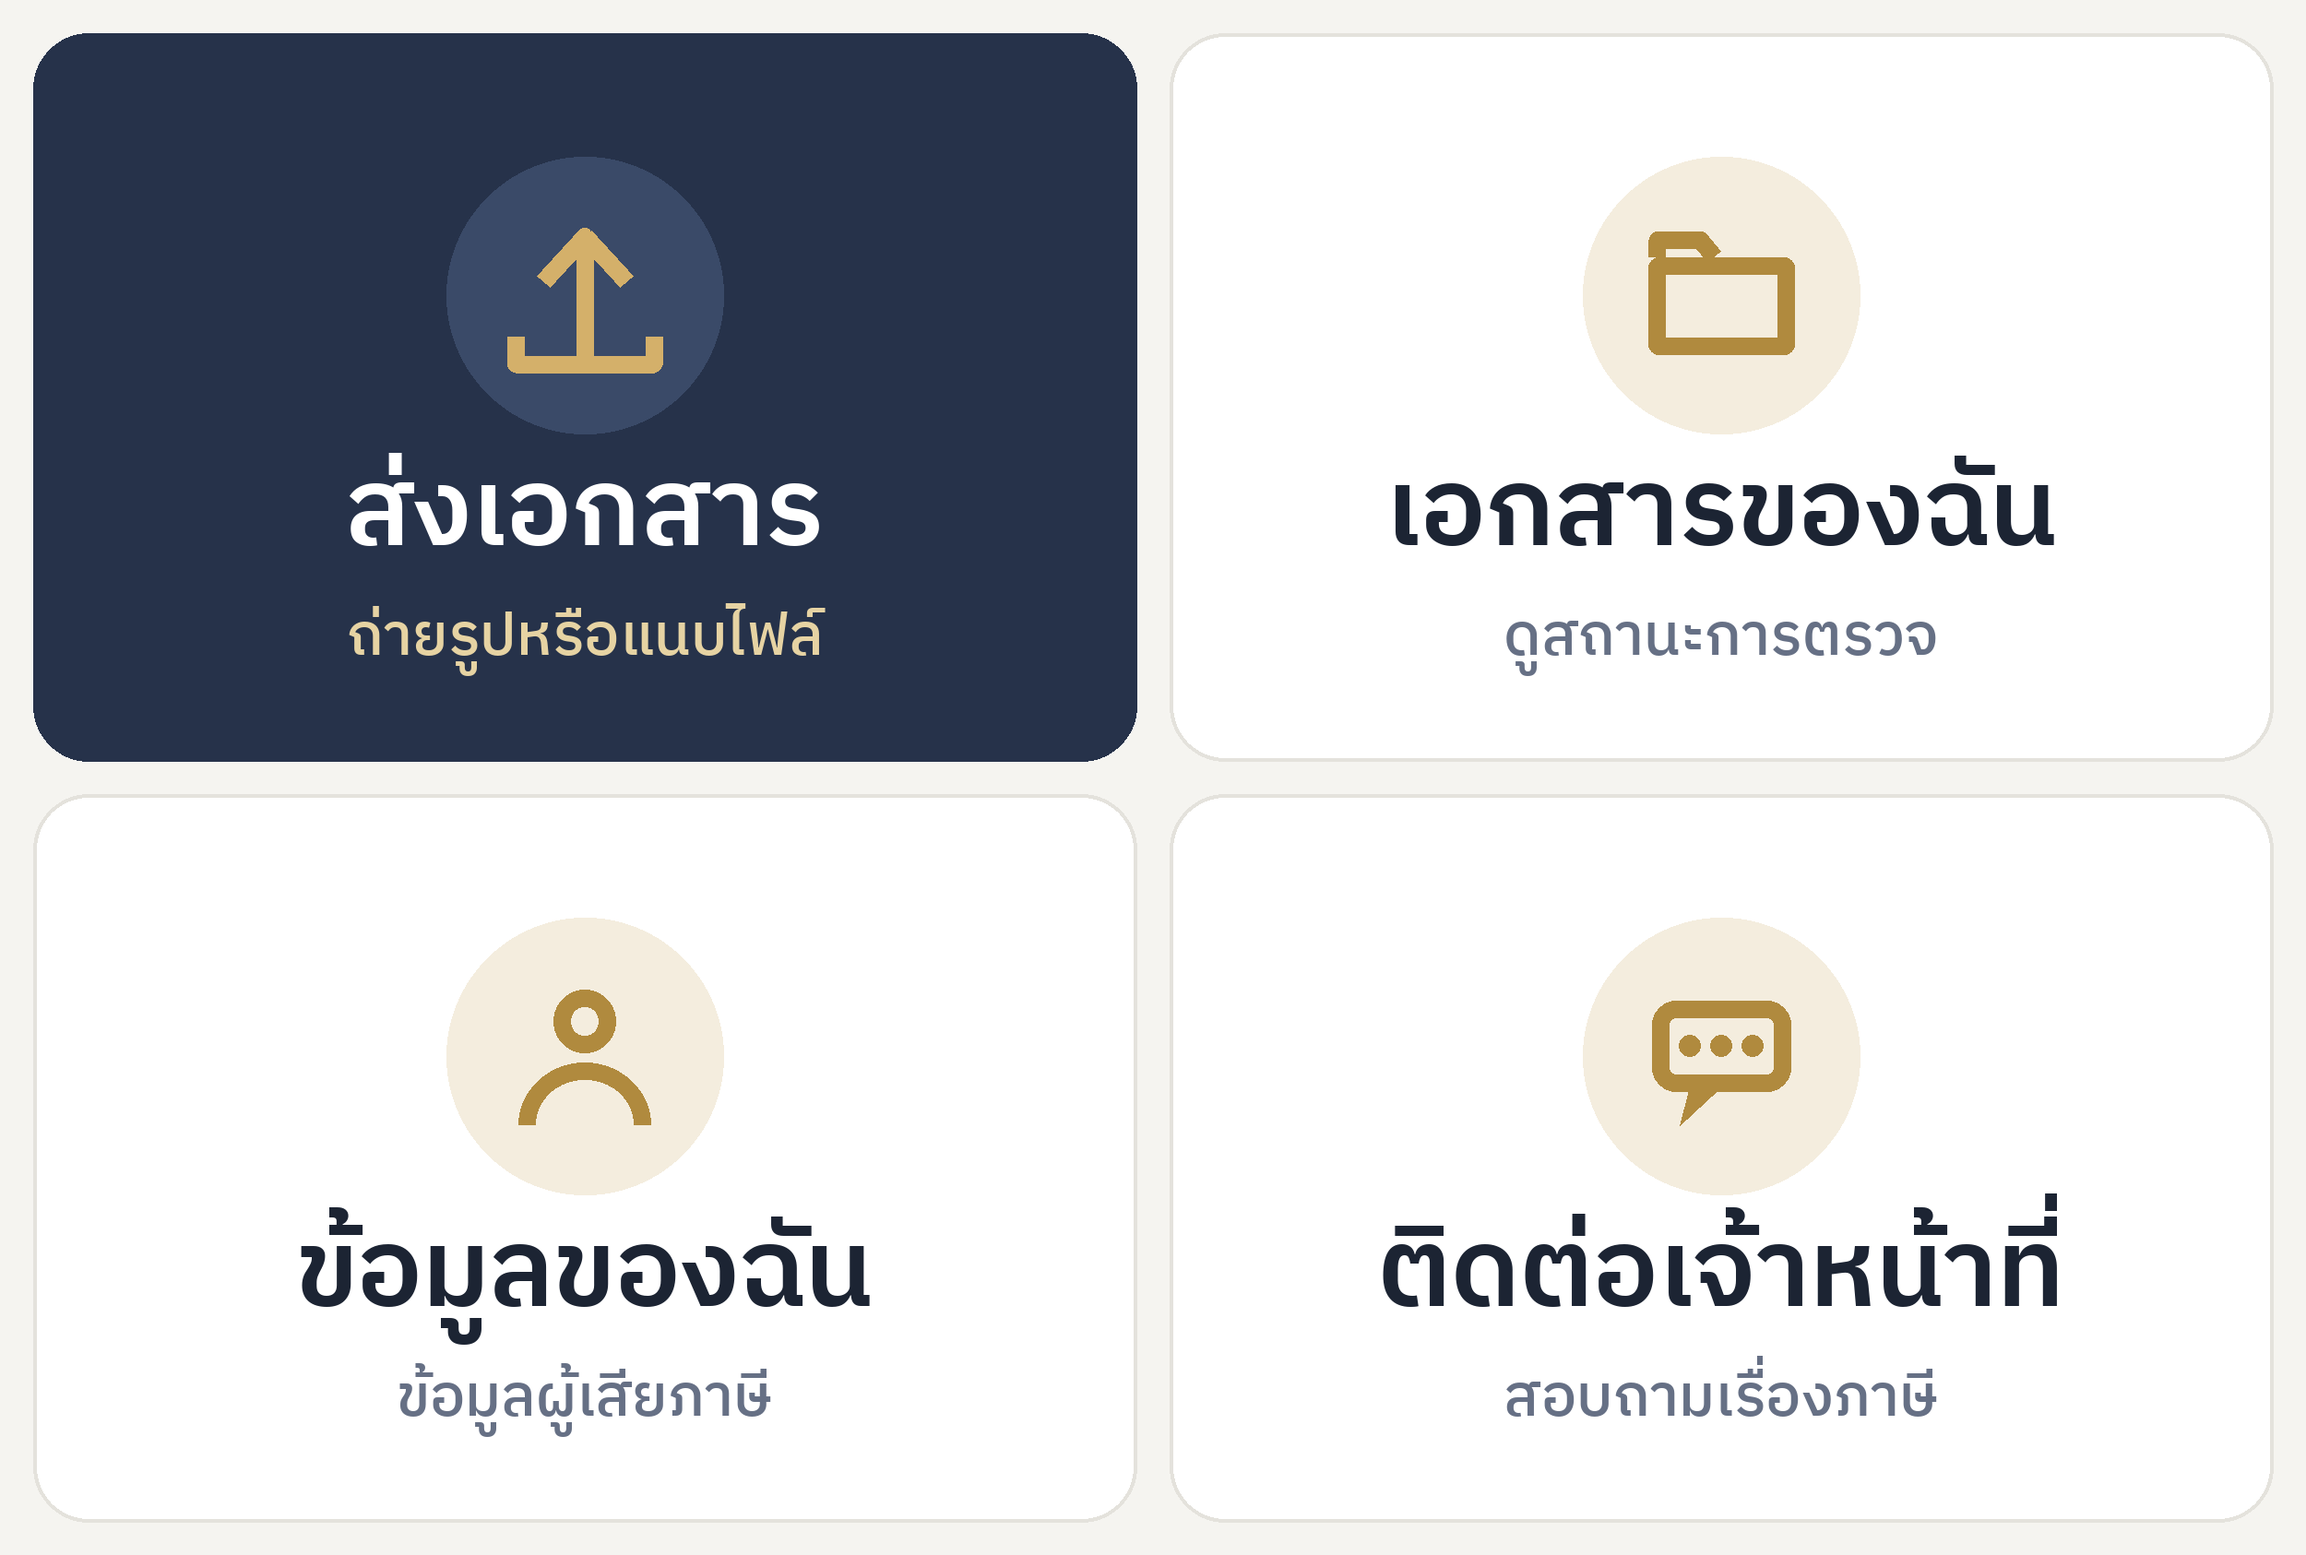
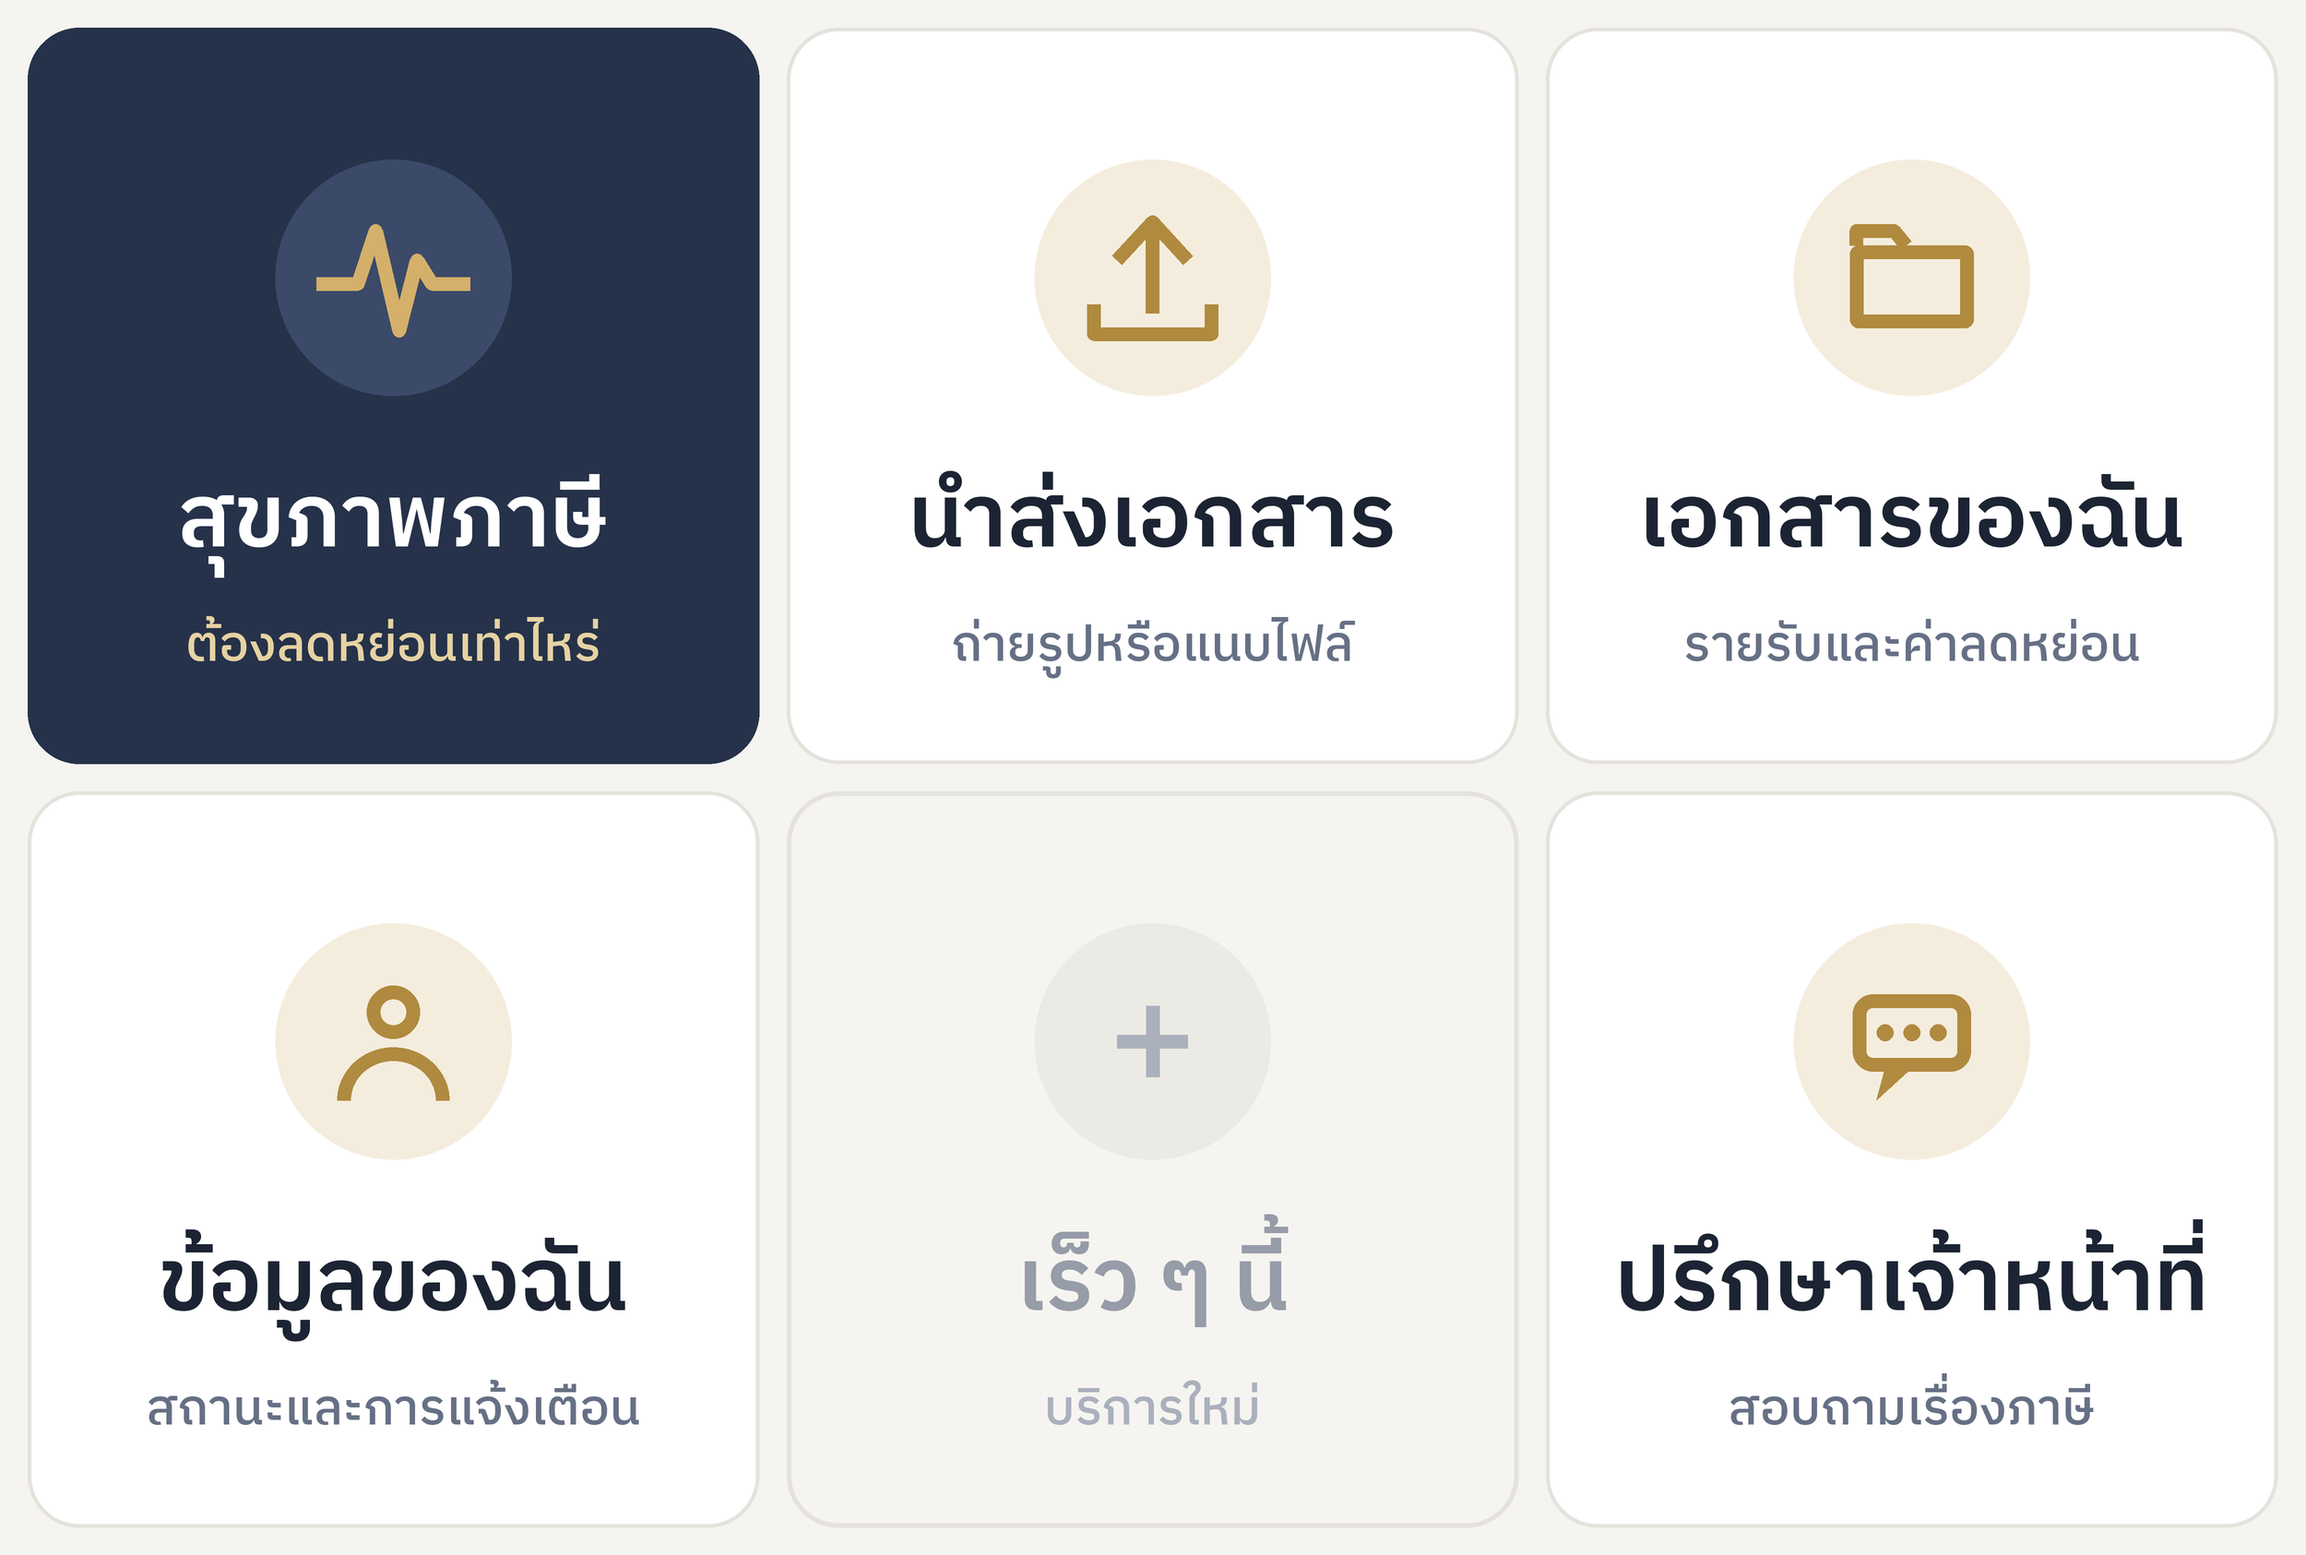
Rich menu 6 slots + ?p=health route
Claude-Session: https://claude.ai/code/session_01Sxr2nPh1J9dwJECnhzwNfA

diff --git a/web/index.html b/web/index.html
@@ -472,7 +472,7 @@ async function openApp(){
   $("h-code").textContent = `รหัสลูกค้า ${me.client_code || "–"}`;
   buildUploadForm();
   const page = new URLSearchParams(location.search).get("p");
-  go(["upload","docs","me","plan"].includes(page) ? page : "home");
+  go(["upload","docs","me","plan","health"].includes(page) ? page : "home");
   countDocs();
 }
 function go(page){
@@ -481,6 +481,7 @@ function go(page){
   else if (page === "docs") { show("v-docs"); loadDocs(); }
   else if (page === "me") { renderMe(); show("v-me"); }
   else if (page === "plan") { openPlan(); }
+  else if (page === "health") { openHealth(); }
 }
 document.addEventListener("click", (e) => { const g = e.target.closest("[data-go]"); if (g) go(g.dataset.go); });
 
@@ -722,6 +723,11 @@ function renderPlanResult(r){
   $("r-disc").textContent = "* เป็นการประมาณการจากข้อมูลที่กรอก สำหรับเงินได้ประเภทเงินเดือน/ค่าจ้าง (ม.40(1)–(2)) " +
     "ยังไม่รวมเงินได้ประเภทอื่น ผลจริงขึ้นกับเอกสารและการยื่นแบบ · " + r.notes.join(" · ");
   show("v-planres");
+}
+// สุขภาพภาษี (ชั่วคราว: ถ้าเคยกรอกแล้วแสดงผลทันที ไม่งั้นเปิดฟอร์ม) — หน้า Overview เต็มจะมาแทน
+async function openHealth(){
+  await openPlan();
+  if (planLoaded[planYear]) $("f-plan").requestSubmit();
 }
 // ลดหย่อนเพิ่มเท่าไรจึงไม่ต้องจ่ายเพิ่ม (ภาษี ≤ ที่ถูกหักไว้)
 function needForNoPay(r){
